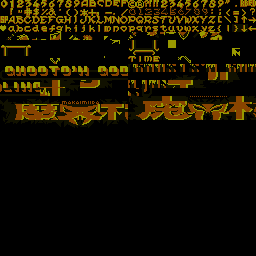
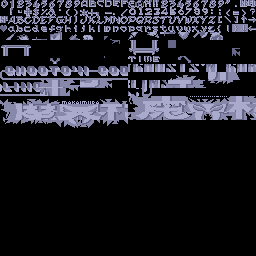
some fixes & progress

Changed region(s): [[0.0, 0.0, 1.0, 0.5], [0.9062, 0.1875, 0.9375, 0.2188], [0.4375, 0.1562, 0.4688, 0.1875]]

diff --git a/tools/post_process.py b/tools/post_process.py
@@ -111,6 +111,13 @@ for i,line in enumerate(lines):
     elif address in {0x5c41,0x5241}:
         line = change_instruction("GET_REG_ADDRESS\t0,d5",lines,i) + "\tsubq.w\t#1,d5\n\tmove.b\td1,-(a0)   | [...]\n"
 
+    elif address == 0x5025:
+        # remove movem because afterwards the registers are restored individually
+        # plus it's slightly faster, but it was indeed equivalent
+        line = change_instruction("move.l\td2,-(sp)",lines,i) + "\tmove.l\td1,-(sp)   | [...]\n"
+    elif address == 0x5035:
+        # manual read of d2 value from the stack
+        line = change_instruction("move.l\t(sp),d2",lines,i)
     lines[i] = line
 
 with open(source_dir / f"{bankname}.68k","w") as fw:
@@ -122,7 +129,7 @@ l_489b
 l_48bd
 l_5022
 l_5025
-l_5051
+write_one_digit_to_screen_5051
 l_54ff
 l_5bdd
 l_511e
@@ -130,7 +137,7 @@ l_513b
 l_523f
 l_5347
 l_52fb
-l_53a3
+copy_highscores_53a3
 l_53f4
 l_52b9
 l_54e3

diff --git a/assets/amiga/convert_graphics.py b/assets/amiga/convert_graphics.py
@@ -190,14 +190,16 @@ else:
 
 # now gather all cluts used by letter/digit tiles, logging probably
 # missed some
-##used_cluts = set()
-##for atc in alphanum_tile_codes:
-##    cluts = tile_cluts.get(atc)
-##    if cluts:
-##        used_cluts.update(cluts)
-### now set cluts for all alphanum tiles
-##for atc in alphanum_tile_codes:
-##    tile_cluts[atc] = sorted(used_cluts)
+
+alphanum_tile_codes = list(range(0,10)) + list(range(ord('A'),ord('Z'))) + list(range(ord('a'),ord('z')))
+used_cluts = set()
+for atc in alphanum_tile_codes:
+    cluts = fg_tile_cluts.get(atc)
+    if cluts:
+        used_cluts.update(cluts)
+# now set cluts for all alphanum tiles
+for atc in alphanum_tile_codes:
+    fg_tile_cluts[atc] = sorted(used_cluts)
 
 
 def apply_color_replacement(sprite_set_list,quantized):

diff --git a/assets/sheets/rework_gfxset_names.py b/assets/sheets/rework_gfxset_names.py
@@ -1,0 +1,12 @@
+import glob,os,re,pathlib
+
+gfx_dir = "."
+
+for sn,ttype,colors in ((0,"fg_tiles",16),(2,"sprites",4),):
+    outdir = pathlib.Path(gfx_dir) / ttype
+    outdir.mkdir(exist_ok=True)
+
+    orig_name = f"gfx dev 0 set {sn} tiles * colors {colors} pal *.png"
+    for file in glob.glob(os.path.join(gfx_dir,orig_name)):
+        new_name = re.sub(".* pal ","pal_",os.path.basename(file))
+        os.rename(file,outdir / new_name)
